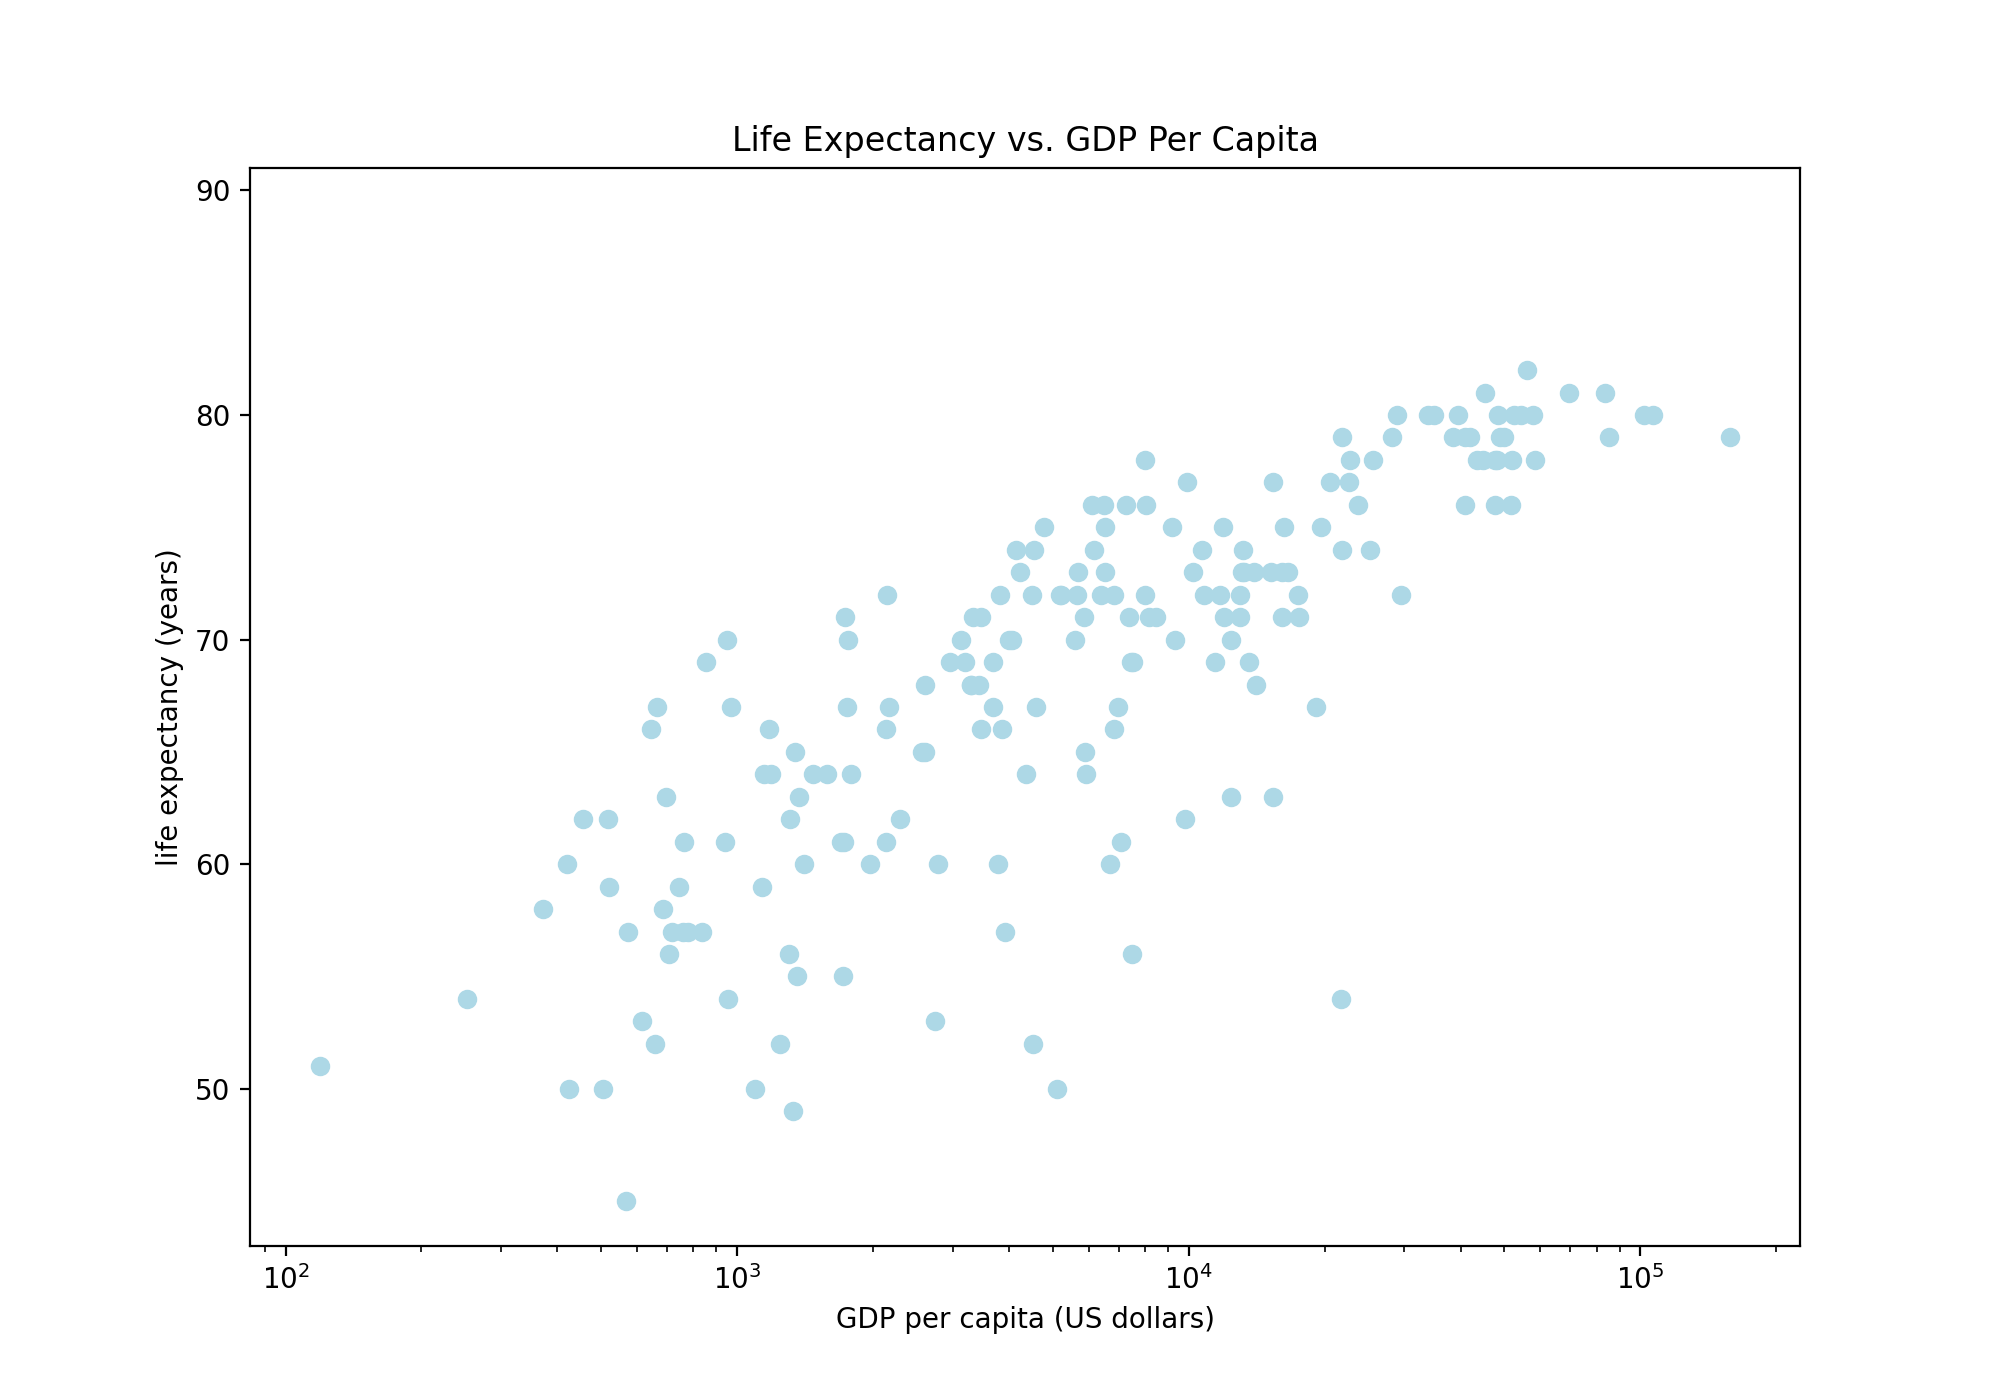
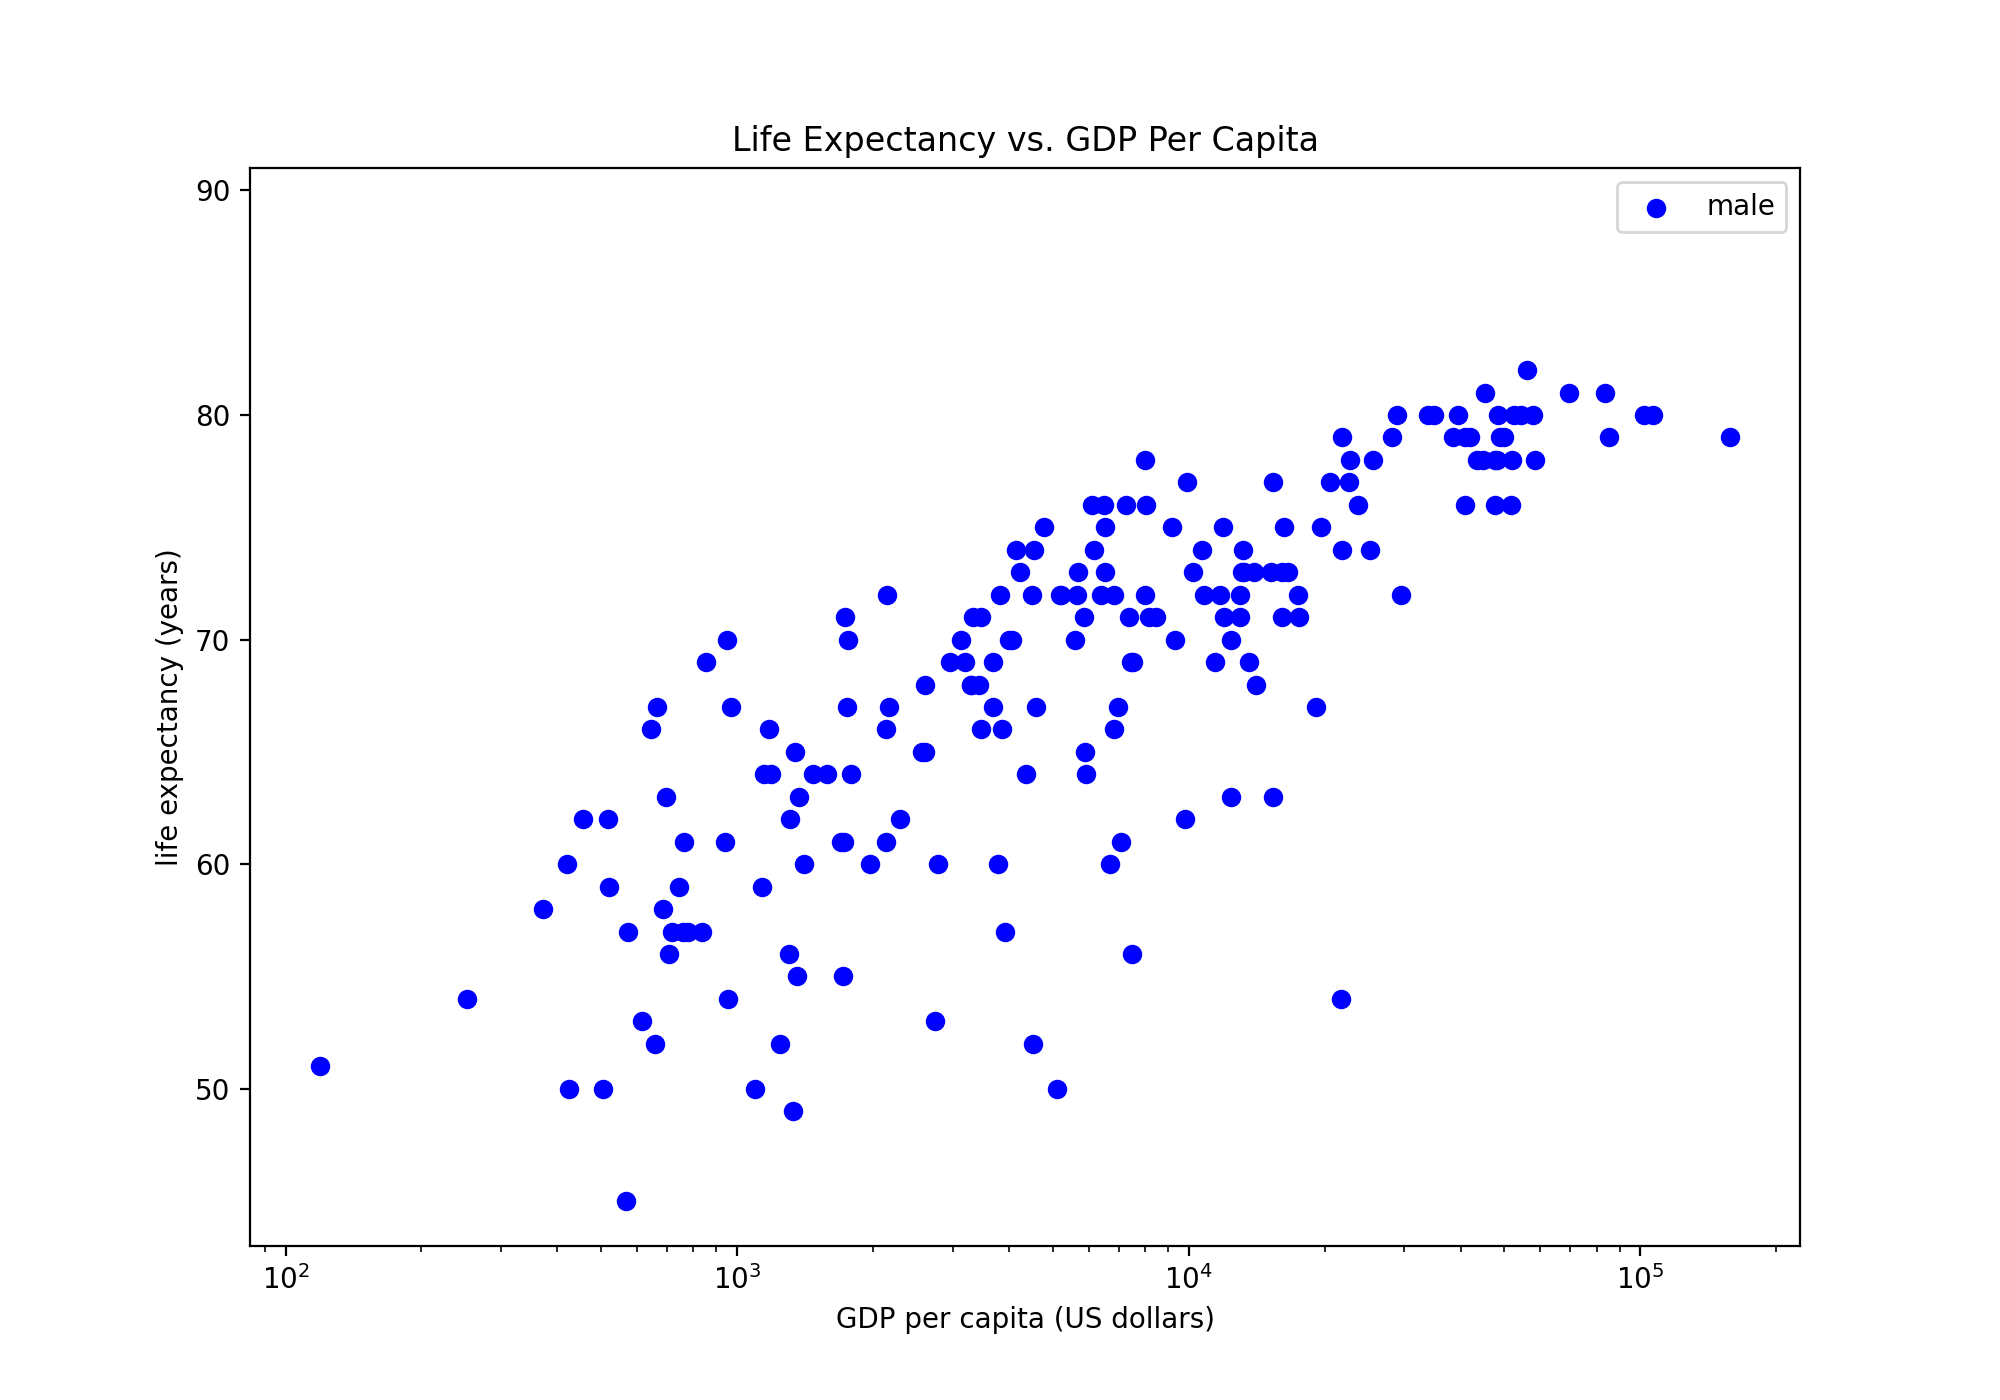
regression

diff --git a/regression.py b/regression.py
@@ -3,7 +3,7 @@ The scatter plot script.
 """
 
 
-from project_data import countries, pop, gdps, male, female, both, data
+from project_data import countries, pop, gdps, male, female, both
 
 import numpy as np
 import matplotlib.pyplot as plt
@@ -16,33 +16,45 @@ DEEP_PINK = '#ff1493'
 
 PLOT_TITLE = 'Life Expectancy vs. GDP Per Capita'
 
-# data.sort(key=lambda t: t[3])
-# print('Country, pop, GDP per capita, male exp, female exp, combined exp')
-# for t in data:
-#     print(t)
+
+# get fits
+f = np.polyfit(gdps, both, 1)
+a = f[0] * gdps + f[1]
+r_linear = np.corrcoef(a, both)
+
+log_gdps = np.log(gdps)
+g = np.polyfit(log_gdps, both, 1)
+a = g[0] * np.log(gdps) + g[1]
+r_log = np.corrcoef(a, both)
 
 
+# plot everything!
 plt.figure(figsize=(10, 7), dpi=200)
 
-# scatter plot
-# sizes = None
-# edge_color = 'face'
-# plt.scatter(gdps, both, s=sizes, c='black', edgecolors=edge_color)  # both
-# plt.scatter(gdps, male, s=sizes, c=LIGHT_BLUE, edgecolors=edge_color)  # male
-# plt.scatter(gdps, female, s=sizes, c=DEEP_PINK, edgecolors=edge_color)  # female
+plt.scatter(gdps, both)
 
-# bubble chart
-# sizes = np.array(pop) / 8e5
-sizes = np.interp(pop, (min(pop), max(pop)), (10, 2e3))  # discuss during presentation?
-edge_color = 'black'
-plt.scatter(gdps, both, s=sizes, c='orange', edgecolors=edge_color)  # light orange
-# plt.scatter(gdps, male, s=sizes, c='#add8e6', edgecolors=edge_color)  # light blue
-# plt.scatter(gdps, female, s=sizes, c='#ffb6c1', edgecolors=edge_color)  # light pink
+# linear x-axis
+x = np.linspace(1, max(gdps), num=1000)
 
-plt.xscale('log')
+# logarithmic x-axis
+# plt.xscale('log')
+# x = np.logspace(np.log10(min(gdps)), np.log10(max(gdps)), num=1000)
+
+# linear fit
+y = f[0] * x + f[1]
+r = r_linear[0, 1]
+plt.plot(x, y, label=f'linear fit: r = {r:.3}, r^2 = {r ** 2:.3}')
+
+# logarithmic fit
+y = g[0] * np.log(x) + g[1]
+r = r_log[0, 1]
+plt.plot(x, y, label=f'logarithmic fit: r = {r:.3}, r^2 = {r ** 2:.3}')
+
+plt.legend()
+
 plt.xlabel('GDP per capita (US dollars)')
 plt.ylabel('life expectancy (years)')
 plt.ylim(bottom=43, top=91)
 # plt.ylim(bottom=-1)
 plt.title(PLOT_TITLE)
-plt.savefig('plots/bubble_interp.png')
+plt.savefig('plots/regression_linear.png')

diff --git a/scatter.py b/scatter.py
@@ -3,7 +3,7 @@ The scatter plot script.
 """
 
 
-from project_data import countries, pop, gdps, male, female, both, data
+from project_data import countries, pop, gdps, male, female, both
 
 import numpy as np
 import matplotlib.pyplot as plt
@@ -16,33 +16,30 @@ DEEP_PINK = '#ff1493'
 
 PLOT_TITLE = 'Life Expectancy vs. GDP Per Capita'
 
-# data.sort(key=lambda t: t[3])
-# print('Country, pop, GDP per capita, male exp, female exp, combined exp')
-# for t in data:
-#     print(t)
-
 
 plt.figure(figsize=(10, 7), dpi=200)
 
 # scatter plot
-# sizes = None
-# edge_color = 'face'
-# plt.scatter(gdps, both, s=sizes, c='black', edgecolors=edge_color)  # both
-# plt.scatter(gdps, male, s=sizes, c=LIGHT_BLUE, edgecolors=edge_color)  # male
-# plt.scatter(gdps, female, s=sizes, c=DEEP_PINK, edgecolors=edge_color)  # female
+sizes = None
+edge_color = 'face'
+plt.scatter(gdps, both, s=sizes, c='black', edgecolors=edge_color, label='combined genders')  # both
+# plt.scatter(gdps, male, s=sizes, c='blue', edgecolors=edge_color, label='male')  # male
+# plt.scatter(gdps, female, s=sizes, c=DEEP_PINK, edgecolors=edge_color, label='female')  # female
 
 # bubble chart
-# sizes = np.array(pop) / 8e5
-sizes = np.interp(pop, (min(pop), max(pop)), (10, 2e3))  # discuss during presentation?
-edge_color = 'black'
-plt.scatter(gdps, both, s=sizes, c='orange', edgecolors=edge_color)  # light orange
+# sizes = pop / 8e5
+# sizes = np.interp(pop, (min(pop), max(pop)), (10, 2e3))  # discuss during presentation?
+# edge_color = 'black'
+# plt.scatter(gdps, both, s=sizes, c='orange', edgecolors=edge_color)  # light orange
 # plt.scatter(gdps, male, s=sizes, c='#add8e6', edgecolors=edge_color)  # light blue
 # plt.scatter(gdps, female, s=sizes, c='#ffb6c1', edgecolors=edge_color)  # light pink
 
-plt.xscale('log')
+plt.legend()
+
+# plt.xscale('log')
 plt.xlabel('GDP per capita (US dollars)')
 plt.ylabel('life expectancy (years)')
 plt.ylim(bottom=43, top=91)
 # plt.ylim(bottom=-1)
 plt.title(PLOT_TITLE)
-plt.savefig('plots/bubble_interp.png')
+plt.savefig('plots/scatter_both_linear.png')

diff --git a/project_data.py b/project_data.py
@@ -24,6 +24,8 @@ gender is either "Male", "Female", or "Both sexes"
 
 import statistics
 
+import numpy as np
+
 gdp_dict = {}
 with open('data_files/gdp_per_capita.csv') as f:
     for line in f:
@@ -78,7 +80,14 @@ assert len(female) == entries
 assert len(both) == entries
 print(f'ok total {entries} entries')
 
-data = list(zip(countries, pop, gdps, male, female, both))
+# data = list(zip(countries, pop, gdps, male, female, both))
 
 print(f'median of GDPs: {statistics.median(gdps)}')
 print(f'median of life expectancies: {statistics.median(both)}')
+
+countries = np.array(countries)
+pop = np.array(pop)
+gdps = np.array(gdps)
+male = np.array(male)
+female = np.array(female)
+both = np.array(both)

diff --git a/boxplot.py b/boxplot.py
@@ -3,7 +3,7 @@ The scatter plot script.
 """
 
 
-from project_data import countries, pop, gdps, male, female, both, data
+from project_data import countries, pop, gdps, male, female, both
 
 import numpy as np
 import matplotlib.pyplot as plt
